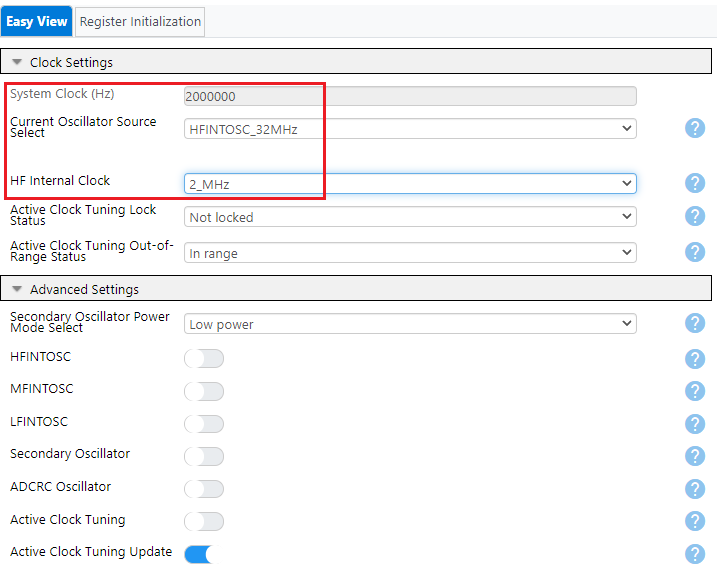
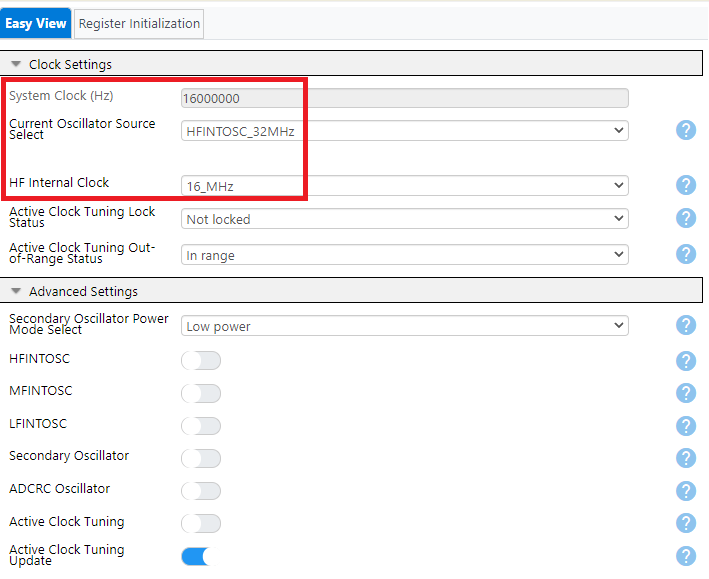
MPAE-14630: Updated Readme, images, and code

diff --git a/mcc_generated_files/system/src/clock.c b/mcc_generated_files/system/src/clock.c
@@ -43,8 +43,8 @@ void CLOCK_Initialize(void)
     OSCCON3 = 0x0;
     // HFOEN disabled; MFOEN disabled; LFOEN disabled; SOSCEN disabled; ADOEN disabled; 
     OSCEN = 0x0;
-    // HFFRQ 2_MHz; 
-    OSCFRQ = 0x1;
+    // HFFRQ 16_MHz; 
+    OSCFRQ = 0x4;
     // 
     OSCSTAT = 0x0;
     // TUN undefined; 

diff --git a/mcc_generated_files/system/clock.h b/mcc_generated_files/system/clock.h
@@ -36,7 +36,7 @@
 #define	CLOCK_H
 
 #ifndef _XTAL_FREQ
-#define _XTAL_FREQ 2000000
+#define _XTAL_FREQ 16000000
 #endif
 
 /**

diff --git a/README.md b/README.md
@@ -150,8 +150,8 @@ These settings set CLC4 as the pass through of the system clock (red boxes in Fi
 ### Setup - Clock Control, Configuration bits, and Interrupt Manager
 Click on Clock Control in the Project Resources list to open the configuraton menu. Within the menu, modify the following settings:
 - **Current Oscillator Source Select:** Select 'HFINTOSC_32MHz' from the dropdown menu
-- **HF Internal Clock:** Select '2_MHz' from the dropdown menu
-- **System Clock (Hz):** Verify that the Hz value updated to '2000000'
+- **HF Internal Clock:** Select '16_MHz' from the dropdown menu
+- **System Clock (Hz):** Verify that the Hz value updated to '16000000'
 
 These clock settings are also shown within the red boxes in Figure 10.
 
@@ -177,8 +177,8 @@ Click on Interrupt Manager in the Project Resouces list to open the configuratio
 
 ### Setup - NCO
 Click on NCO1 from the Project Resource list to open the configuration menu. Within the menu, modify the following settings in the order they are listed:
-1. **CLC Clock (Hz):** Change the value to be 2MHz (2000000 Hz)
-2. **Requested NCO Output Frequency:** Change the value to 999999Hz (max possible for 2MHz in above setting)
+1. **CLC Clock (Hz):** Change the value to be 16MHz (16000000 Hz)
+2. **Requested NCO Output Frequency:** Change the value to 7999993Hz (max possible for 16MHz in above setting)
 3. **Clock Source:** Select 'CLC3_OUT' from the dropdown menu
 
 These NCO settings are also shown within the red boxes in Figure 13.
@@ -269,28 +269,28 @@ Finally open up the main.c program from the projects tab (see Figure 19 - line c
     
 Insert the following code inside the  'while(1)' loop:
 
-        //wait initialize
-        NCO1ACCL = 0x00; 
-        NCO1ACCH = 0x00; 
-        NCO1ACCU = 0x00;  //clear accumulator
+    //wait initialize
+    NCO1ACCL = 0x00; 
+    NCO1ACCH = 0x00; 
+    NCO1ACCU = 0x00;  //clear accumulator
 
-        NCO1CONbits.EN = 1; //enable NCO module
-        PIR2bits.CLC2IF = 0; //clear CLC2IF interrupt flag
-        
-        //wait for pulse
-        while(!PIR2bits.CLC2IF); //wait until interrupt flag is set
+    NCO1CONbits.EN = 1; //enable NCO module
+    PIR2bits.CLC2IF = 0; //clear CLC2IF interrupt flag
+    
+    //wait for pulse
+    while(!PIR2bits.CLC2IF); //wait until interrupt flag is set
 
-            //save accumulator value
-            int8_t result2 = NCO1ACCU; 
-            int8_t result1 = NCO1ACCH;
-            int8_t result0 = NCO1ACCL;
+        //save accumulator value
+        int8_t result2 = NCO1ACCU; 
+        int8_t result1 = NCO1ACCH;
+        int8_t result0 = NCO1ACCL;
 
-            //process accumulator values to make a 20-bit value
-            int24_t measurement = ((int24_t)result2 << 16); 
-            measurement = measurement + ((int16_t)result1 << 8);
-            measurement = measurement + result0;
+        //process accumulator values to make a 20-bit value
+        int24_t measurement = ((int24_t)result2 << 16); 
+        measurement = measurement + ((int16_t)result1 << 8);
+        measurement = measurement + result0;
 
-        NCO1CONbits.EN = 0; //disable NCO module
+    NCO1CONbits.EN = 0; //disable NCO module
 
 If inserting the above code is confusing, look through the files included in this code example to see exactly where the lines of code should go.
 
